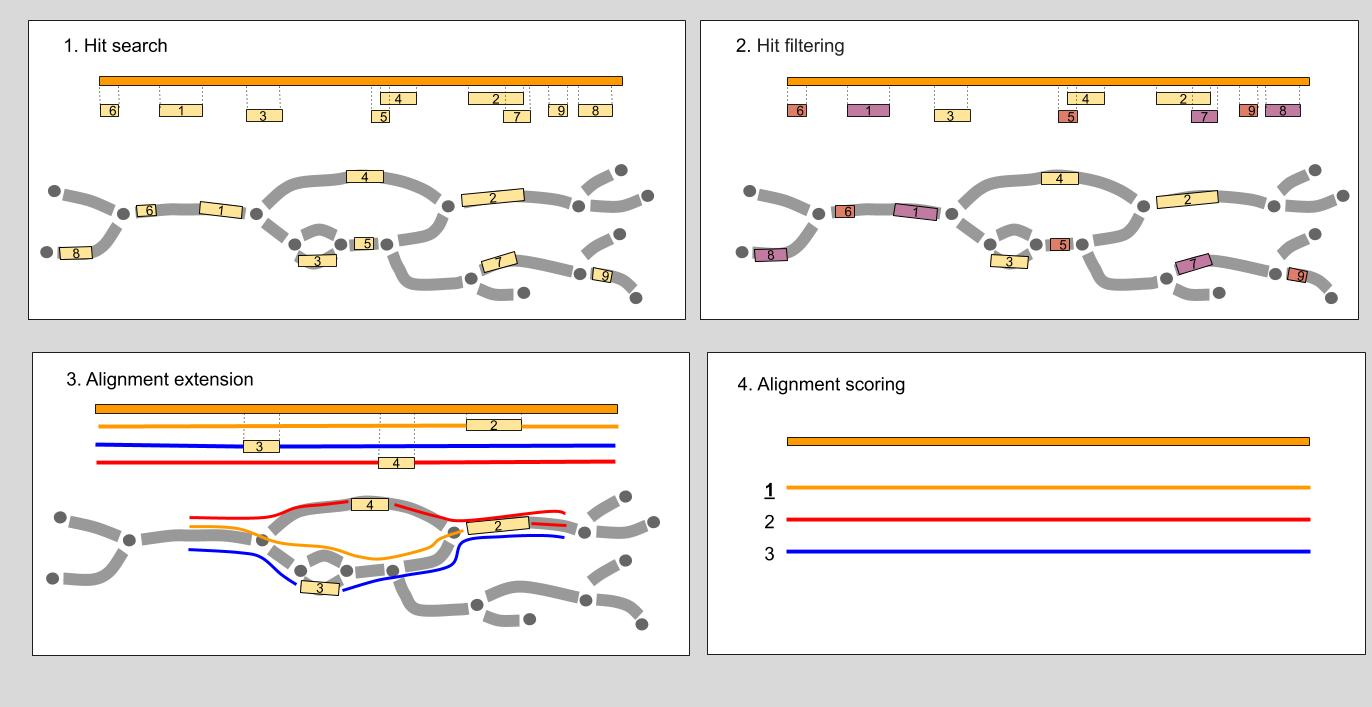
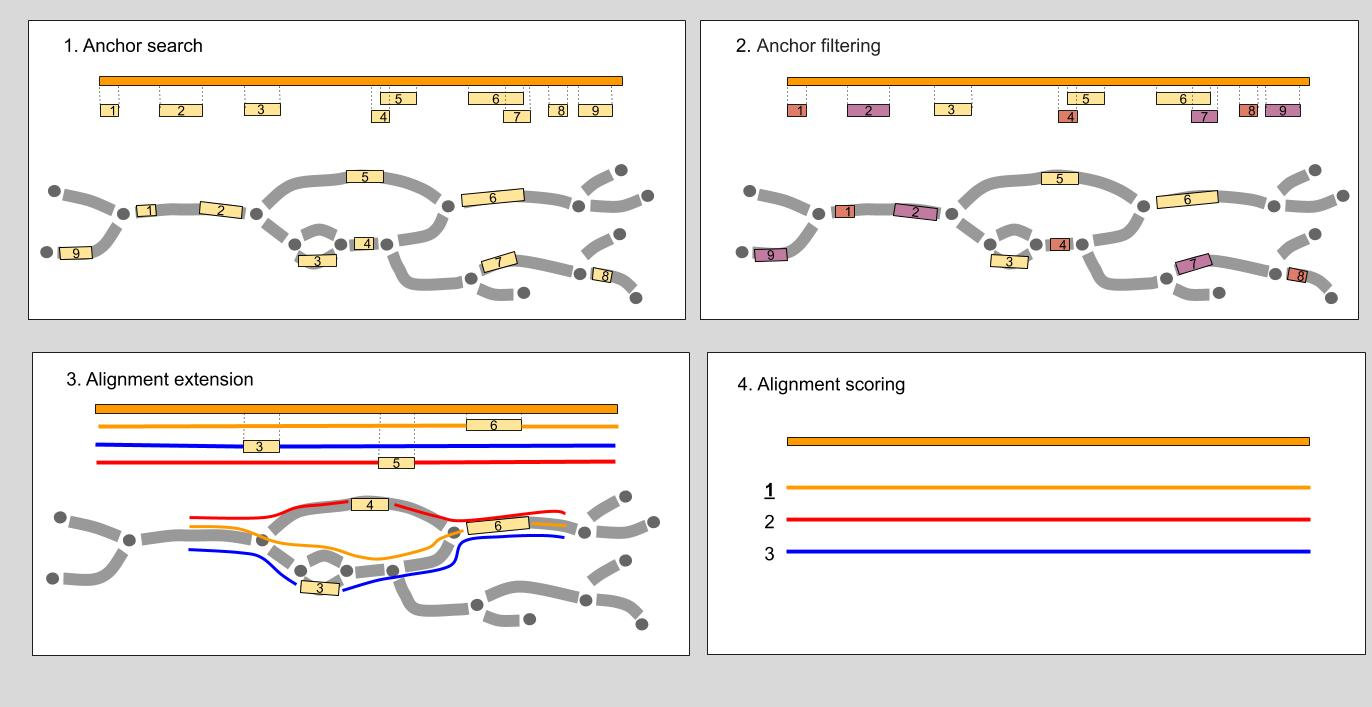
Update K->k, pics and rename hits to anchors

diff --git a/assembler/src/projects/spaligner/README.md b/assembler/src/projects/spaligner/README.md
@@ -11,7 +11,7 @@ It can be used to align both nucleotide and amino acid sequences, e.g. long read
     spaligner spaligner_config.yaml \    # config file 
               -d pacbio \                # data type: pacbio, nanopore or protein
               -g assembly_graph.gfa \    # gfa-file with assembly graph 
-              -K 77 \                    # graph K-mer size
+              -k 77 \                    # graph K-mer size
               -s pacbio_reads.fastq.gz \ # sequences to align in fasta/fastq formats
               -t 8                       # number of threads
 
@@ -96,7 +96,7 @@ AGGTTGTTTTTTGTTTCTTCCGC... — sequence of alignment Path <br/>
 
 **Example 3**<br/>
 
-Sometimes sequence alignment on the graph can be represented as several non-overlapping subpaths (if there is no alignment with appropriate score between two consecutive bwa hits). <br/>
+Sometimes sequence alignment on the graph can be represented as several non-overlapping subpaths (if there is no alignment with appropriate score between two consecutive bwa anchors). <br/>
 So, there can be several unconnected alignments of sequence onto assembly graph and several start positions, end positions, paths etc.:
 
 ```
@@ -121,10 +121,10 @@ Overview of the alignment of the nucleotide query sequence *S* (orange bar) to a
 
 ![pipeline](pipeline.jpg)
 
-1. **Hit search.** Hits (regions of high similarity) between the query and the edge labels are identified with [BWA-MEM](http://bio-bwa.sourceforge.net/). 
-2. **Hit filtering.** Hits shorter than *K*, assembly graph *K*-mer size,(hits 5, 6, 9), hits “in the middle” of long edge (hit 4) or ambiguous hits (hit 7 mostly covered by hit 2, both hits 11 and 12) are discarded.
-3. **Hit chaining.** Heaviest chain of compatible hits (chain 1->3->2) is determined.
-4. **Reconstruction of filling paths.** Paths for fragments of the query between the consecutive chain hits (as well as left- and right-most fragments) are reconstructed. The procedure is performed using fast library for sequence alignment [Edlib](https://github.com/Martinsos/edlib).
+1. **Anchor search.** Anchors (regions of high similarity) between the query and the edge labels are identified with [BWA-MEM](http://bio-bwa.sourceforge.net/). 
+2. **Anchor filtering.** Anchors shorter than *K*, assembly graph *K*-mer size,(anchors 5, 6, 9), anchors “in the middle” of long edge (anchor 4) or ambiguous anchors (anchor 7 mostly covered by anchor 2, both anchors 11 and 12) are discarded.
+3. **Anchor chaining.** Heaviest chain of compatible anchors (chain 1->3->2) is determined.
+4. **Reconstruction of filling paths.** Paths for fragments of the query between the consecutive chain anchors (as well as left- and right-most fragments) are reconstructed. The procedure is performed using fast library for sequence alignment [Edlib](https://github.com/Martinsos/edlib).
 
 ### <a name="longaa"></a>Amino-acid sequence alignment pipeline
 
@@ -132,9 +132,9 @@ Overview of the alignment of the amino-acid query sequence *S* (orange bar) to a
 
 ![pipeline_protein](pipeline_protein.jpg)
 
-1. **Hit search.** Hits (regions of high similarity) between the query and the edge labels are identified with [BWA-MEM](http://bio-bwa.sourceforge.net/). 
-2. **Hit filtering.** Hits shorter than *K*, assembly graph *K*-mer size,(hits 5, 6, 9), hits with a wrong frame shift of long edge (hits 1, 7, 8) are discarded.
-3. **Alignment extension.** Search of an optimal alignments extending each of the remaining hits.
+1. **Anchor search.** Anchors (regions of high similarity) between the query and the edge labels are identified with [BWA-MEM](http://bio-bwa.sourceforge.net/). 
+2. **Anchor filtering.** Anchors shorter than *K*, assembly graph *K*-mer size,(anchors 5, 6, 9), anchors with a wrong frame shift of long edge (anchors 1, 7, 8) are discarded.
+3. **Alignment extension.** Search of an optimal alignments extending each of the remaining anchors.
 4. **Alignment scoring.** Obtained alignment paths are re-scored via [Parasail library](https://github.com/jeffdaily/parasail) for fast amino acid sequence alignment.
 
 ## <a name="parameters"></a>Parameters tuning
@@ -143,17 +143,17 @@ Full list of parameters can be found in spaligner_config.yaml.
 
 ### <a name="nucparams"></a> Nucleotide sequence alignment
 
-* `run_dijkstra: true` Run Dijkstra algorithm to find alignment between hits, if `run_dijkstra: false`, SPAligner will check limited number of paths and return the best one.
-* `restore_ends: true` Restore alignment path before leftmost hit and after rightmost hit.
+* `run_dijkstra: true` Run Dijkstra algorithm to find alignment between anchors, if `run_dijkstra: false`, SPAligner will check limited number of paths and return the best one.
+* `restore_ends: true` Restore alignment path before leftmost anchor and after rightmost anchor.
 
 
-* `internal_length_cutoff: 200` Hits with length < `internal_length_cutoff` will be filtered out.
-* `path_limit_stretching: 1.3` Pair of hits is considered to be compatible if (the minimal distance between them in graph) 
+* `internal_length_cutoff: 200` Anchors with length < `internal_length_cutoff` will be filtered out.
+* `path_limit_stretching: 1.3` Pair of anchors is considered to be compatible if (the minimal distance between them in graph) 
                                 < `path_limit_stretching` * (the distance between their positions on sequence).
-* `path_limit_pressing: 0.7` Pair of hits is considered to be compatible if (the minimal distance between them in graph) 
+* `path_limit_pressing: 0.7` Pair of anchors is considered to be compatible if (the minimal distance between them in graph) 
                                 > `path_limit_pressing` * (the distance between their positions on sequence).
-* `max_path_in_chaining: 15000` Limit on number of paths to consider between two hits on hits chaining step.
-* `max_vertex_in_chaining: 5000` Limit on number of vertices to consider between two hits on hits chaining step.
+* `max_path_in_chaining: 15000` Limit on number of paths to consider between two anchors on anchors chaining step.
+* `max_vertex_in_chaining: 5000` Limit on number of vertices to consider between two anchors on anchors chaining step.
 
 
 ### <a name="aaparams"></a>Amino acid sequence alignment
@@ -176,7 +176,7 @@ Full list of parameters can be found in spaligner_config.yaml.
 * `ed_lower_bound: 500` Minimal penalty score of alignment.
 * `ed_upper_bound: 2000` Maximal penalty score of alignment.
 * `max_gs_states: 120000000` If number of queue states exceeds `max_gs_limit` then shortest path search is not performed (for nucleotide sequence alignment only).
-* `max_restorable_length: 5000` If distance between two hits or between leftmost/rightmost hit and start/end exceeds `max_restorable_length` then shortest path search is not performed.
+* `max_restorable_length: 5000` If distance between two anchors or between leftmost/rightmost anchor and start/end exceeds `max_restorable_length` then shortest path search is not performed.
 
 Increase of `max_gs_states`, `max_restorable_length`, `queue_limit`, `iteration_limit` or `updates_limit` may lead to longer alignments with the same identity level, but slows down the process and can use much more memory. Please change them if you 100% confident in what you are doing.
 
